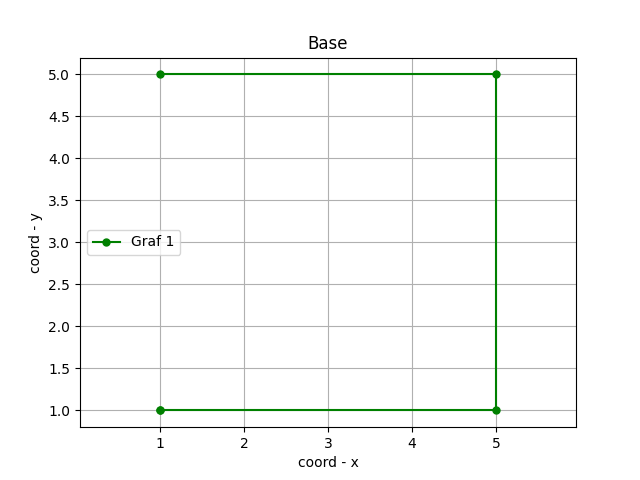
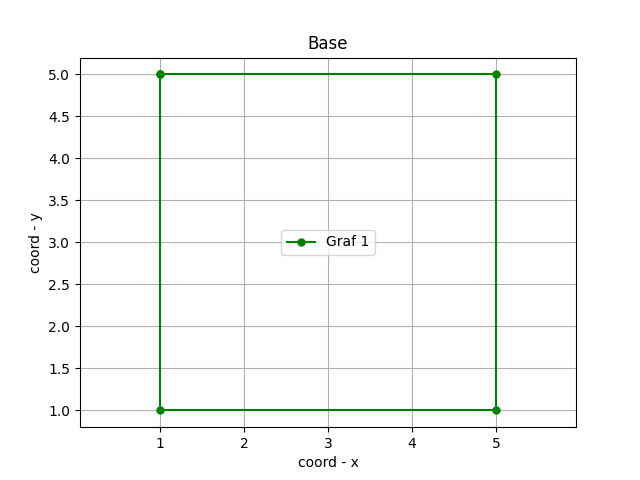
ghh

Changed region(s): [[0.125, 0.4688, 0.2812, 0.5625], [0.4375, 0.4688, 0.5938, 0.5312]]

diff --git a/task_2.py b/task_2.py
@@ -1,18 +1,19 @@
-import matplotlib.pyplot as ply
+import matplotlib.pyplot as plt
 import numpy as np
 
-def giperbola_plotter(k=1):
-    x1 = np.arange(10,10, 0.1)
+def hyperbola_plotter(k=1):
+    x1 = np.arange(-10, -0.01, -0.1)
     y1 = k/x1
-
-    x2 = np.arange(-10, 10, 0.1)
+    x2 = np.arange(0.01, 10, 0.1)
     y2 = k/x2
 
-    plt.plot(x1,y1, color='g', label='my giperbola1', ms=5)
+    plt.plot(x1,y1, color='g', label='my hyperbola1', ms=5)
     plt.xlabel('coord - x1')
     plt.ylabel('coord - y1')
     plt.axis('equal')
     plt.legend()
     plt.title('Giperbola plotter')
 
+if __name__=='__main__':
+    hyperbola_plotter() 
     plt.savefig('fig_2.png')

diff --git a/task_3.py b/task_3.py
@@ -1,0 +1,20 @@
+import matplotlib.pyplot as plt
+import numpy as np
+
+def elipse_plotter(x0=0, y0=0, dx=3, dy=1):
+    
+    x = np.arange(-2*dx + x0, 2*dx + x0, 0.01)
+    y = np.arange(-2*dy + y0, 2*dy + y0, 0.01)
+
+    X, Y = np.meshgrid(x, y)
+    fxy = ((X - x0)**2)/(dx**2) + ((Y - y0)**2)/(dy**2)
+
+    plt.contour(X, Y, fxy, levels=[1])
+
+    plt.savefig("fig_3.1.png")
+
+if __name__=="__main__":
+    plt.axis("equal")
+    plt.grid()
+    elipse_plotter()
+

diff --git a/task_1.py b/task_1.py
@@ -1,6 +1,6 @@
 import matplotlib.pyplot as plt
 x = [1, 5, 5, 1, 1]
-y = [5, 5, 1, 1, 1]
+y = [5, 5, 1, 1, 5]
 
 plt.plot(x, y, color='g', label='Graf 1', marker='o', ms=5)
 
